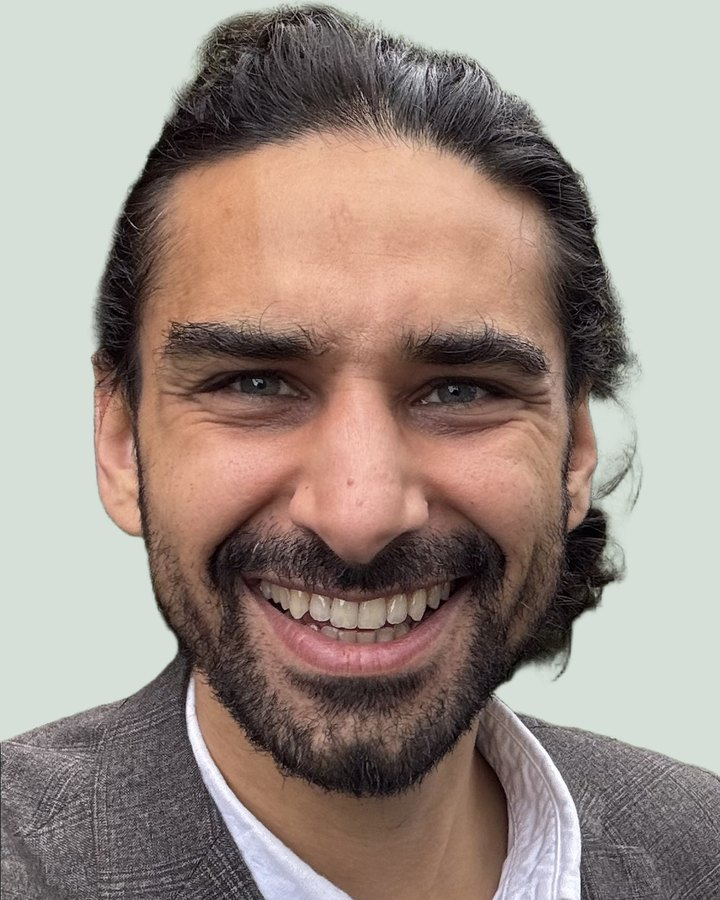
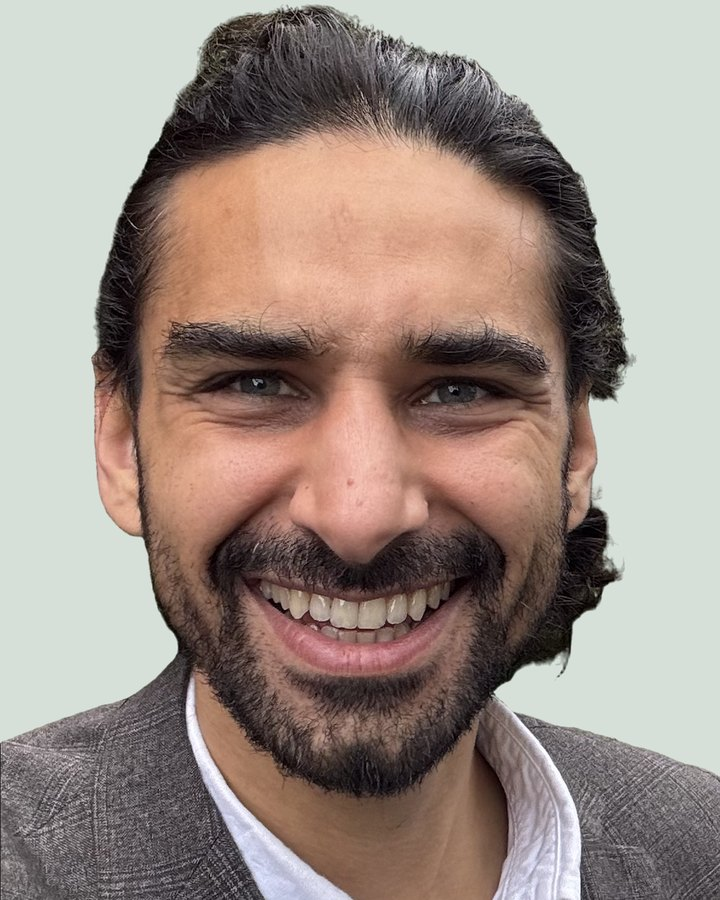
Clean up hair edge on the right side of the portrait
Claude-Session: https://claude.ai/code/session_01RfrsvzaDNWk36aFGnVN6tq

diff --git a/index.html b/index.html
@@ -141,7 +141,7 @@ footer { color: var(--muted); font-size: 0.85rem; font-family: var(--display); b
       <p class="lede">I teach data protection, run people-first AI workshops, and build tools that help people think for themselves. Lille, France.</p>
       <p class="kufi" lang="ar" dir="rtl" title="Salam from Abu Suleiman">سلام من أبي سليمان</p>
     </div>
-    <img class="portrait" src="bilal.jpg" alt="Portrait of Bilal Ghalib smiling, in a grey blazer and white shirt" width="720" height="900">
+    <img class="portrait" src="bilal.jpg?v=3" alt="Portrait of Bilal Ghalib smiling, in a grey blazer and white shirt" width="720" height="900">
   </header>
 
   <nav class="shortcuts" aria-label="On this page">
